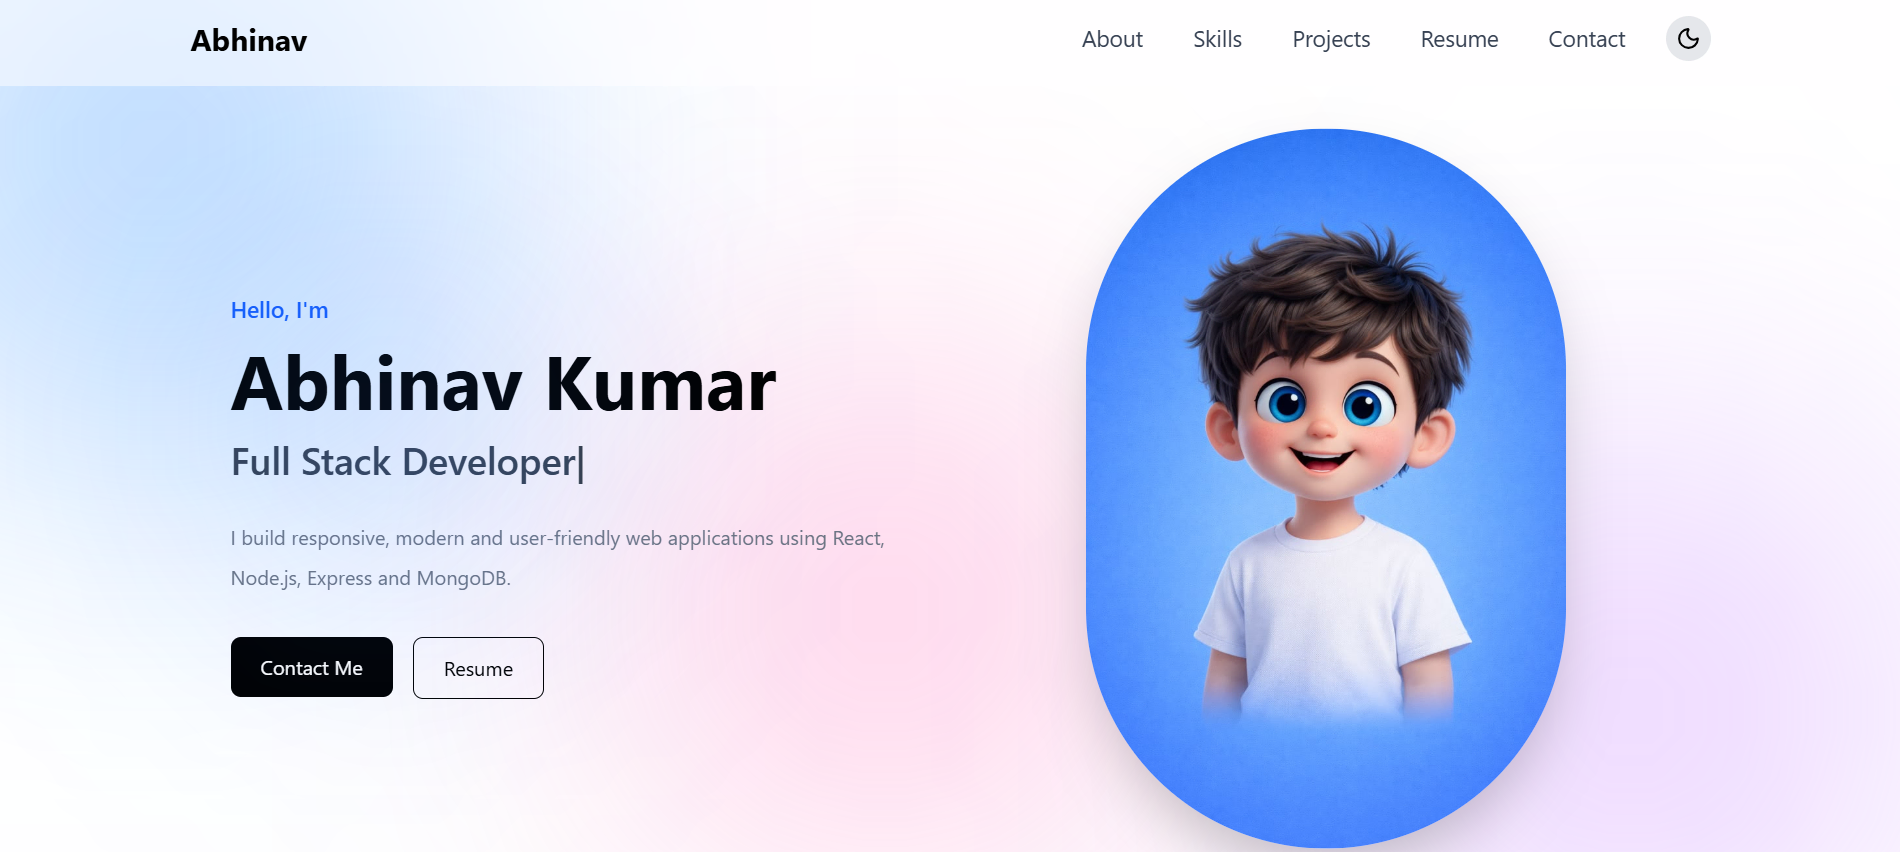
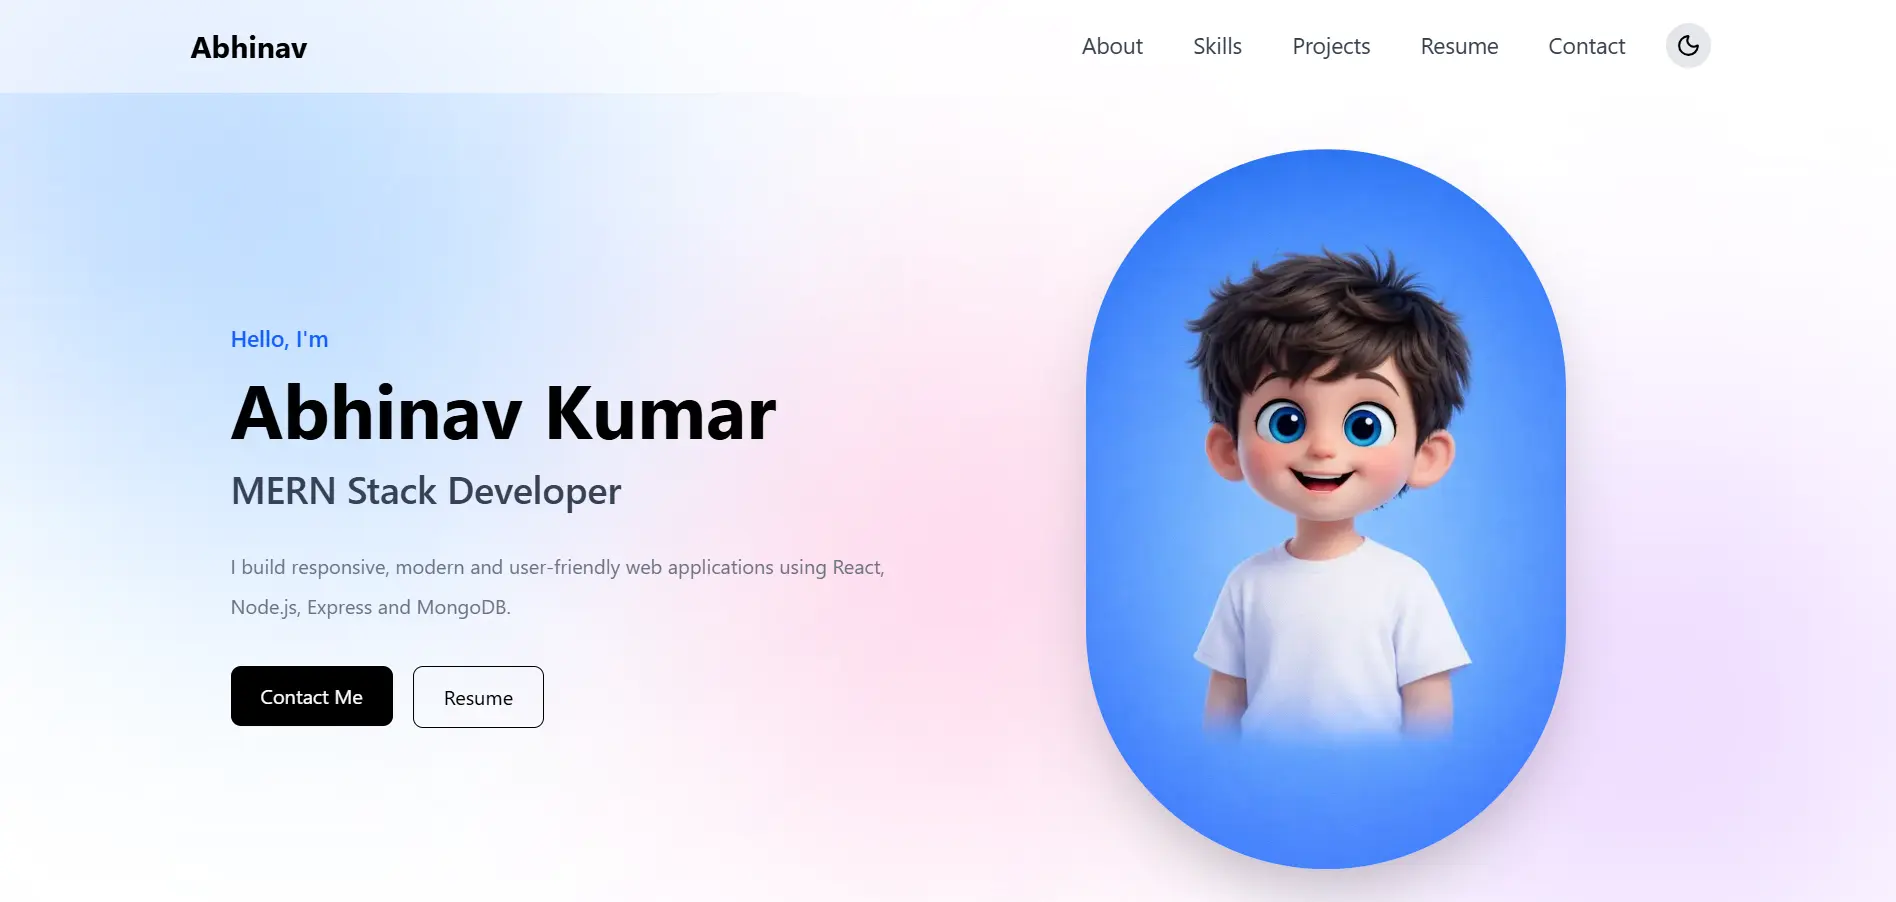
update project.js

diff --git a/src/data/projects.js b/src/data/projects.js
@@ -11,7 +11,7 @@ const projects = [
     title: "SkillBridge AI",
     description: "AI-powered resume analyzer with ATS scoring and personalized suggestions.",
     image: "/images/project2.webp",
-    tech: ["React", "Node.js", "MongoDB", "AI"],
+    tech: ["React", "Node.js", "MongoDB", "AI", "OCR"],
     github: "https://github.com/abhi-0605/SkillBridge_AI",
     live: "https://skillbridge-ai-abhi0605.vercel.app/",
   },
